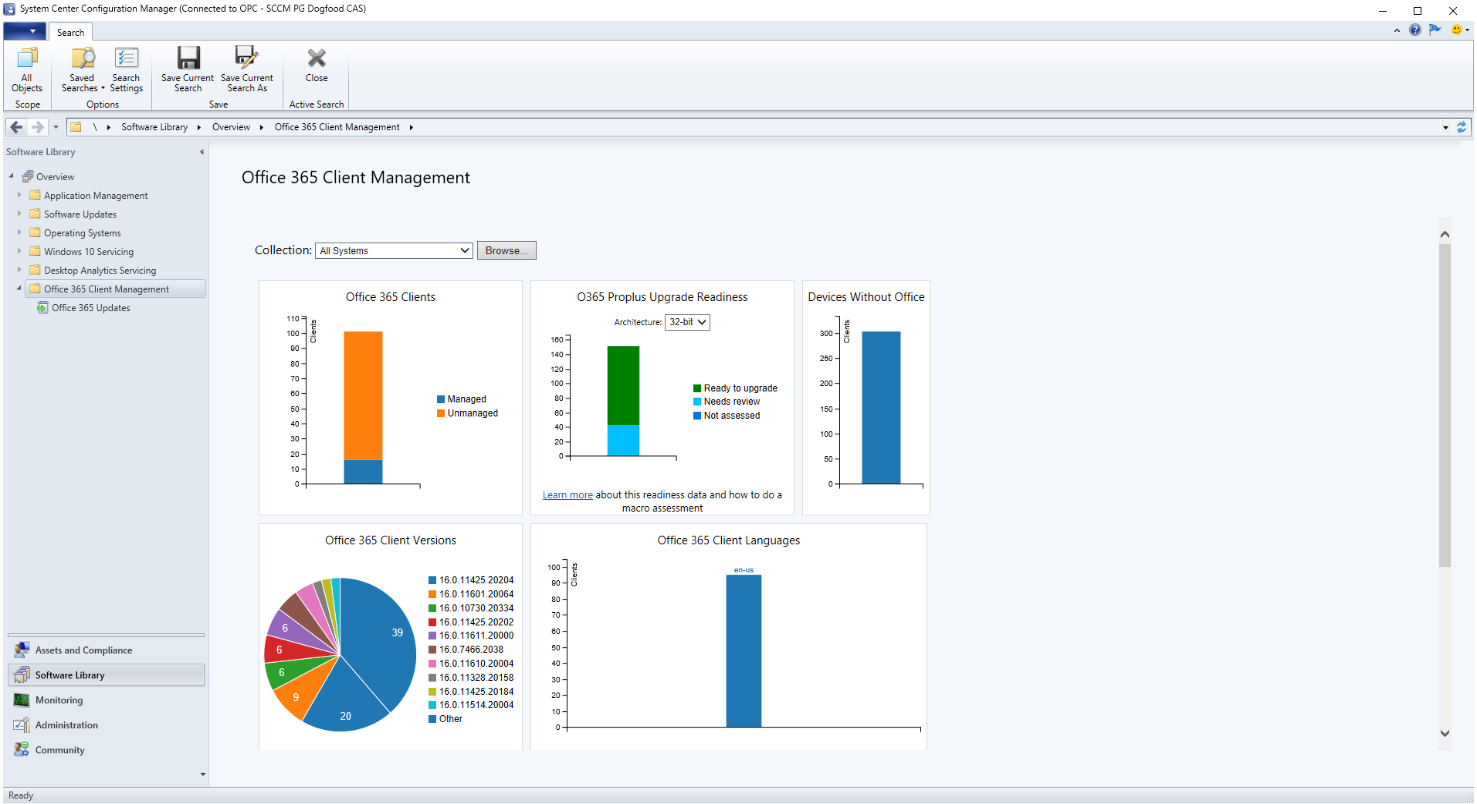
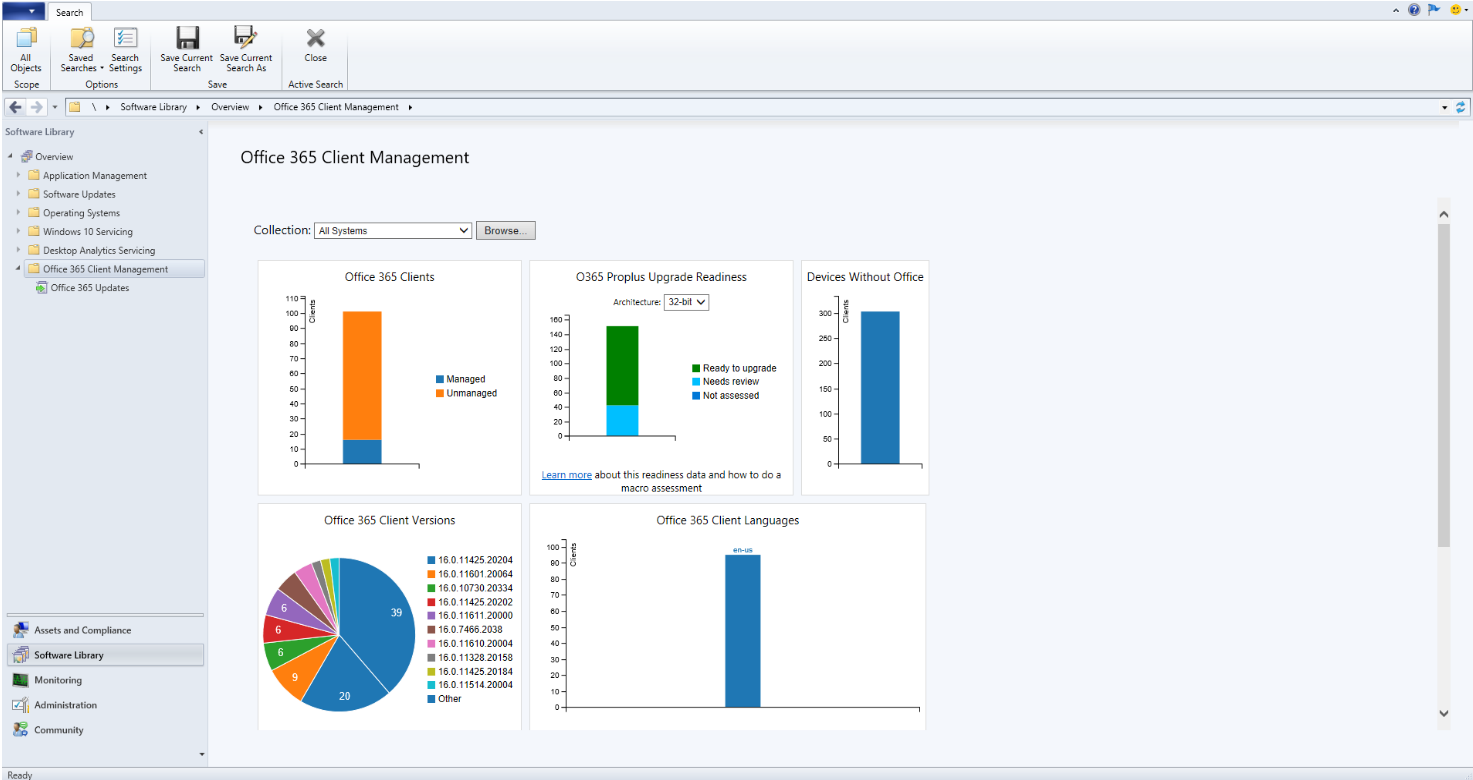
rebranding of configmgr and other text edits

diff --git a/learn-m365-pr/m365/m365-office-it-prepare/includes/commonconfigurations.md b/learn-m365-pr/m365/m365-office-it-prepare/includes/commonconfigurations.md
@@ -1,33 +1,45 @@
 In this unit, we’ll explain relevant network considerations, language configurations, policies and preferences, and application architectures.
 
 ## Network optimizations for software updates
-You can update general purpose devices using automatic updates over the Internet. You can configure Office software updates to use Delivery Optimization in Windows 10. This will minimize Internet and VPN traffic while ensuring your Office installation is kept up-to-date. Delivery Optimization uses peer-to-peer delivery to minimize Internet bandwidth usage. You can load updates to a small number of devices on a shared network. Then other connected devices use their network peers to discover and load the updates from them. This prevents every device from individually downloading updates from the Internet, saving significant bandwidth.
 
-If your organization uses System Center Configuration Manager infrastructure, you can configure peer cache to reduce internal network or VPN traffic to remote distribution points. With peer cache in Configuration Manager, you identify well-connected client PCs on a local network to cache deployment source. In this case Office uses Configuration Manager as the software update mechanism. Update traffic is directed to the nearest peer cache device on the network in order to save bandwidth. 
+You can update general purpose devices using automatic updates over the Internet. You can configure Office software updates to use Delivery Optimization in Windows 10. This will minimize Internet and VPN traffic while ensuring your Office installation is kept up-to-date. Delivery Optimization uses peer-to-peer delivery to minimize internet bandwidth usage. You can load updates to a small number of devices on a shared network. Then other connected devices use their network peers to discover and load the updates from them. This prevents every device from individually downloading updates from the internet, saving significant bandwidth.
+
+If your organization uses Microsoft Endpoint Configuration Manager infrastructure, you can configure peer cache to reduce internal network or VPN traffic to remote distribution points. With peer cache in Configuration Manager, you identify well-connected client PCs on a local network to cache deployment source. In this case Office uses Configuration Manager as the software update mechanism. Update traffic is directed to the nearest peer cache device on the network in order to save bandwidth. 
 
 ## Language configurations
 
-If your organization has devices and users with multiple languages, you can configure your Office deployments for full language support, partial language support, or proofing language support as needed. You configure this in the configuration XML file and can edit it using the Office Customization Tool (found at [https://config.office.com](https://config.office.com) or as part of the updated Office application packaging process in System Center Configuration Manager. 
+If your organization has devices and users with multiple languages, you can configure your Office deployments for full language support, partial language support, or proofing language support as needed. You configure this in the configuration XML file and can edit it using the Office Customization Tool, or as part of the updated Office application packaging process in Configuration Manager. 
   
 > [!TIP] 
-> A common mistake made in multi-lingual environments is to build a single package that contains most or all of the languages used in the organization. If you add too many languages, the Office package can quickly exceed several gigabytes. 
+> A common mistake made in multi-lingual environments is to build a single package that contains most or all of the languages used in the organization. If you add too many languages, the Office package can quickly exceed several gigabytes.
 
-One advantage of installing from the Internet-based Office 365 CDN instead of using Configuration Manager is that you can use the **match OS** property. With the **match OS** property, you can  download language-specific files dynamically as Office is installed. 
+One advantage of installing from the internet-based Office 365 CDN instead of using Configuration Manager is that you can use the **match OS** property. With the **match OS** property, you can  download language-specific files dynamically as Office is installed.
 
 ## Policies and preferences
 
-Office 365 ProPlus and volume licensing editions of Office 2019 support Active Directory Group Policy management. New versions continue to use the Office 2016 ADMX templates. Additionally, you can configure install-time policy preferences with the same versions of Office by using the new Office Customization Tool [(https://config.office.com)](https://config.office.com) or as part of the Office 365 Installer process in Configuration Manager. These are policy preferences and not enforced policies - in many cases your users can change or modify the configurations post-installation.
+Office 365 ProPlus and volume licensing editions of Office 2019 support Active Directory Group Policy management. New versions continue to use the Office 2016 ADMX templates. Additionally, you can configure install-time policy preferences with the same versions of Office by using the new Office Customization Tool or as part of the Office 365 Installer process in Configuration Manager. These are policy preferences and not enforced policies - in many cases your users can change or modify the configurations post-installation.
 
-Office 365 ProPlus has a new policy enforcement option - the Office Cloud Policy Service. When a user signs into their Office 365 account, if Office 365 ProPlus is installed on their device, the service enforces the policies you've configured. These policies work regardless of how Office 365 ProPlus was installed and whether or not the user’s PC is domain-joined or managed using other systems. To configure policies with the Office Cloud Policy Service, you add users to an Office 365 group, then assign that group to configured policies. You can also get to the Office Cloud Policy Service experience at [https://config.office.com](https://config.office.com). To use this capability, you need to authenticate with an administrator account to set policies and assign them to groups. 
+Office 365 ProPlus has a new policy enforcement option - the Office Cloud Policy Service. When a user signs into their Office 365 account, if Office 365 ProPlus is installed on their device, the service enforces the policies you've configured. These policies work regardless of how Office 365 ProPlus was installed and whether or not the user’s PC is domain-joined or managed using other systems. 
+
+To configure policies with the Office Cloud Policy Service, you add users to an Office 365 group, then assign that group to configured policies. You can also get to the Office Cloud Policy Service experience from the Office Customization Tool link below under **Learn more.** To use this capability, you need to authenticate with an administrator account to set policies and assign them to groups. 
 
 > [!NOTE]
 > The policies set in the Office Cloud Policy Service are currently limited to **User Configuration** policies and don’t include **Computer Configuration** policies.
 
 ## Visio and Project considerations
+
 If any of your users have Visio or Project installed, there are a few additional things to be aware of:
--	Volume licensing versions of Visio or Project can coexist on the same computer with subscription activation versions of Office 365 ProPlus.
--	Visio 2019 and Project 2019, as well as Visio Online and Project Online applications, are packaged using Click-to-Run. Because of codependencies and shared components in Office, they must be at an equivalent version level. For example, if you have Visio 2019, and you want to also use Office, you need Office 2019 or Office 365 ProPlus.
--	Click-to-Run packaged versions of Visio or Project must use the same update channel as other Click-to-Run Office features on the PC. 
+
+- Volume licensing versions of Visio or Project can coexist on the same computer with subscription activation versions of Office 365 ProPlus.
+- Visio 2019 and Project 2019, as well as Visio Online and Project Online applications, are packaged using Click-to-Run. Because of codependencies and shared components in Office, they must be at an equivalent version level. For example, if you have Visio 2019, and you want to also use Office, you need Office 2019 or Office 365 ProPlus.
+- Click-to-Run packaged versions of Visio or Project must use the same update channel as other Click-to-Run Office features on the PC.
 
 ## Office installation architecture
+
 The installation architecture for all Office applications (including Visio and Project) must match that of any other Office application on the same device, whether that is 32-bit or 64-bit. If the Office installation process detects another architecture, the installation won’t proceed. Office COM add-ins must also match the architecture of the installed version of Office. If you want to move to 64-bit versions of Office, you must replace native 32-bit COM add-ins with the equivalent 64-bit COM add-ins. 
+
+## Learn more
+
+When you're done with a link, use the **Back** arrow in your browser to come back to this page.
+
+- [Office Customization Tool](https://config.office.com)

diff --git a/learn-m365-pr/m365/m365-office-it-overview/includes/introduction.md b/learn-m365-pr/m365/m365-office-it-overview/includes/introduction.md
@@ -1,15 +1,17 @@
 > [!VIDEO https://www.microsoft.com/videoplayer/embed/RE3YduP]
 
-**Microsoft Office** applications are available for Windows, MacOS, mobile platforms, and the web. In this learning path, we’ll focus on Office desktop apps for Windows and what you can do to **prepare**, **upgrade**, and **manage** the Office suite on your systems. After completing this learning path, you should know the tools and best practices to move from an older version of Office to a current release, as well as what you can do to stay current as updates are released.
+Microsoft Office applications are available for Windows, MacOS, mobile platforms, and the web. In **Upgrade Microsoft Office for IT at scale**, we focus on Office desktop apps for Windows and what you can do to *prepare*, *upgrade*, and *manage* the Office suite on your systems. You'll learn the tools and best practices to move from an older version of Office to a current release, as well as what you can do to stay current as updates are released.
 
-Current releases of Microsoft Office are **designed to be compatible** with existing files and Office add-ins – also known as COM add-ins – running in Microsoft Office 2010 and newer. In fact, more than 99% of COM add-ins will continue to work after you upgrade. We’ll show you the tools to discover both COM add-ins and VBA Macros in files and to assess their compatibility with help from Microsoft’s compatibility data in the cloud.
+Current releases of Microsoft Office are designed to be compatible with existing files and Office add-ins – also known as COM add-ins – running in Microsoft Office 2010 and newer. In fact, more than 99% of COM add-ins will continue to work after you upgrade. We’ll show you the tools to discover both COM add-ins and VBA Macros in files and to assess their compatibility with help from Microsoft’s compatibility data in the cloud.
 
-**Microsoft Office** is available in both **Office 365** and **Volume Licensing** editions. As of the 2019 release, Office 365 ProPlus and Office 2019 Professional Plus and Standard use Click-to-Run packaging and specific tools designed for Click-to-Run. The MSI-based packages of Office Volume Licensing editions used until Office 2016 are no longer available; instead Volume Licensing editions use Click-to-Run and can be activated using Multiple Activation Keys (MAK) or Key Management Servers (KMS). A common misperception is that all Office Click-to-Run packages use Office 365 subscription-based activation, but this isn’t true. Both volume licensing and subscription-based activation are supported with Click-to-Run packages of Office.
+Microsoft Office is available in both Office 365 and Volume Licensing editions. As of the 2019 release, Office 365 ProPlus and Office 2019 Professional Plus and Standard use Click-to-Run packaging and specific tools designed for Click-to-Run. The MSI-based packages of Office Volume Licensing editions used until Office 2016 are no longer available; instead Volume Licensing editions use Click-to-Run and can be activated using Multiple Activation Keys (MAK) or Key Management Servers (KMS). A common misperception is that all Office Click-to-Run packages use Office 365 subscription-based activation, but this isn’t true. Both volume licensing and subscription-based activation are supported with Click-to-Run packages of Office.
 
-Office 365 ProPlus and Office 2019 use updated deployment and management tools. The **Office Deployment Tool** is a lightweight setup.exe bootstrapper that can download, install, and configure Office using an XML configuration file. The new **Office Customization Tool** is a web-based interface used to author the XML configuration files. The functionality of both tools are built into System Center Configuration Manager.  
+Office 365 ProPlus and Office 2019 use updated deployment and management tools. The Office Deployment Tool is a lightweight setup.exe bootstrapper that can download, install, and configure Office using an XML configuration file. The new Office Customization Tool is a web-based interface used to author the XML configuration files. The functionality of both tools are built into Configuration Manager.  
 
-Office servicing has also changed with the move to Click-to-Run packaging. In this learning path, we’ll explain monthly and semi-annual channel updates and how they work for both Office 365 and Office 2019 editions. We’ll also review your options to validate updates before release. We’ll also explore the following:
+Office servicing has also changed with the move to Click-to-Run packaging. You'll learn about monthly and semi-annual channel updates and how they work for both Office 365 and Office 2019 editions. We’ll also review your options to validate updates before release. 
 
--	Post-deployment steps to manage software updates
--	How to add apps, languages, and other configurations to existing installations
--	Tools and processes to troubleshoot common configuration, update, and activation issues 
+In addition, we’ll explore:
+
+- Post-deployment steps to manage software updates
+- How to add apps, languages, and other configurations to existing installations
+- Tools and processes to troubleshoot common configuration, update, and activation issues

diff --git a/learn-m365-pr/m365/m365-office-upgrading/includes/processes-tools-download-configure.md b/learn-m365-pr/m365/m365-office-upgrading/includes/processes-tools-download-configure.md
@@ -20,12 +20,19 @@ The setup.exe in the Office Deployment Tool allows you to:
 
     `setup.exe /customize [Path]\settings.xml`
 
-The configuration XML lets you configure dozens of settings when downloading and configuring Office. For example, you can define which products and languages to install, how to update those products, and whether or not to display the installation experience to your users. You can get a complete list of configuration options at [Overview of the Office Deployment Tool](https://aka.ms/odt).
+The configuration XML lets you configure dozens of settings when downloading and configuring Office. For example, you can define which products and languages to install, how to update those products, and whether or not to display the installation experience to your users. You can get a complete list of configuration options under the **Learn more** link below.
 
 ## Office Customization Tool
 
-You can use the **Office Customization Tool** to create and modify configuration XML files using a web-based interface found at [Office 365 Client Configuration Service](https://config.office.com). Use the Office Customization Tool with the setup.exe from the Office Deployment Tool to deploy Office packages to a small number of systems. You can also use it instead of Configuration Manager if your organization doesn’t use System Center Configuration Manager.
+You can use the **Office Customization Tool** to create and modify configuration XML files using a web-based interface found within the Office 365 Client Configuration Service. Use the Office Customization Tool with the setup.exe from the Office Deployment Tool to deploy Office packages to a small number of systems. You can also use it instead of Configuration Manager if your organization doesn’t use Configuration Manager.
 
-Since release 1806, System Center Configuration Manager includes an integrated experience with the Office Customization tool that uses the same web experience as part of the **Office 365 Installer** application package creation process.
+Since release 1806, Configuration Manager includes an integrated experience with the Office Customization tool that uses the same web experience as part of the **Office 365 Installer** application package creation process.
 
-As part of the Office 365 Installer in System Center Configuration Manager, the wizard downloads the up-to-date setup.exe as needed from the Office Deployment Tool, creates the configuration XML file, and downloads Office installation files to your defined package folder location.
+As part of the Office 365 Installer in Configuration Manager, the wizard downloads the up-to-date setup.exe as needed from the Office Deployment Tool, creates the configuration XML file, and downloads Office installation files to your defined package folder location.
+
+## Learn more
+
+When you're done with a link, use the **Back** arrow in your browser to come back to this page.
+
+- [Office 365 Client Configuration Service](https://config.office.com)
+- [Overview of the Office Deployment Tool and configuration options](https://aka.ms/odt)

diff --git a/learn-m365-pr/m365/m365-office-it-prepare/includes/readinesstools.md b/learn-m365-pr/m365/m365-office-it-prepare/includes/readinesstools.md
@@ -4,7 +4,7 @@ Current versions of Microsoft Office are designed to be natively compatible with
 
 ## Assess compatibility with readiness tools
 
-You can use the Readiness Toolkit for Office on its own or with System Center Configuration Manager to gain insights on Office COM add-in and VBA macro compatibility. Configuration Manager also has new capabilities to inventory Office COM add-ins  with hardware inventory. Configuration Manager can also assess Office COM add-ins against known compatibility information.  Using this process, Configuration Manager downloads a copy of known compatibility information from Microsoft and performs local queries against your inventoried Office COM add-ins. With this approach, you don’t have to send Office client or add-in information to the Microsoft cloud to assess compatibility.
+You can use the Readiness Toolkit for Office on its own or with Configuration Manager to gain insights on Office COM add-in and VBA macro compatibility. Configuration Manager also has new capabilities to inventory Office COM add-ins  with hardware inventory. Configuration Manager can also assess Office COM add-ins against known compatibility information.  Using this process, Configuration Manager downloads a copy of known compatibility information from Microsoft and performs local queries against your inventoried Office COM add-ins. With this approach, you don’t have to send Office client or add-in information to the Microsoft cloud to assess compatibility.
 
 You can access this information in the Office Dashboard in Configuration Manager and drill into lists of the add-ins it found. Use this information to prioritize testing the most commonly used and installed Office COM add-ins – especially where there isn’t known compatibility information, such as with in-house developed COM add-ins.
 
@@ -18,4 +18,4 @@ In smaller environments, you can also use the Readiness Toolkit for Office on it
 
 When you're done with a link, use the **Back** arrow in your browser to come back to this page.
 
-- [Assistance offered](https://docs.microsoft.com/fasttrack/win-10-daa-assistance-offered)
+- [FastTrack Center](https://docs.microsoft.com/fasttrack/win-10-daa-assistance-offered)

diff --git a/learn-m365-pr/m365/m365-office-upgrading/includes/create-application-package.md b/learn-m365-pr/m365/m365-office-upgrading/includes/create-application-package.md
@@ -1,6 +1,6 @@
 ![download icon](../media/download-icon.png)
 
-In this unit, we’ll build an Office 365 ProPlus package using the Office 365 Installer application packaging process in System Center Configuration Manager. This process is similar to the standalone web tool found at [Office 365 Client Configuration Service](https://config.office.com).
+In this unit, we’ll build an Office 365 ProPlus package using the Office 365 Installer application packaging process in Configuration Manager. This process is similar to the standalone web tool found in the Office 365 Client Configuration Service.
 
 You can use the standard application package creation process in Configuration Manager, but you’ll have to create the configuration XML files manually, as well as download an updated version of the Office Deployment Tool and the Office installation files. Because of this and to avoid making mistakes along the way, we recommend you use the Office 365 Installer process, following these steps.
 
@@ -12,7 +12,7 @@ To get started in Configuration Manager, access the Office 365 Installer through
 
 ![Screenshot of the Office Customization Tool](../media/office-customization-tool.png)
 
-4. Walking through the Office Customization Tool experience in Configuration Manager, do the following:
+4. In the Office Customization Tool in Configuration Manager:
 
     1. In **Architecture**, choose the Office architecture.
     2. In **Products**, select the Office suites and apps you want to deploy.
@@ -30,3 +30,9 @@ To get started in Configuration Manager, access the Office 365 Installer through
 ![Screenshot of the Client Installation Wizard](../media/client-installation-wizard.png)
 
 If you haven’t already chosen to deploy in the earlier step, you’re ready to deploy as you normally would using other application packages.
+
+## Learn more
+
+When you're done with a link, use the **Back** arrow in your browser to come back to this page.
+
+- [Office 365 Client Configuration Service and Client Management](https://config.office.com)

diff --git a/learn-m365-pr/m365/m365-office-it-prepare/includes/prerequisites.md b/learn-m365-pr/m365/m365-office-it-prepare/includes/prerequisites.md
@@ -26,13 +26,14 @@ Your next step is to determine how Office is used on different PCs and to invent
 
 Typically, Office usage falls into two categories:
 
-**General purpose**
--	Minimal customizations, COM add-ins, or VBA macros in use.
--	Typically represents the majority of users. General purpose devices should use monthly channel updates whenever possible delivered directly from the Internet by the Office 365 Content Delivery Network (CDN).
+### General purpose
 
-**Business essential**
+- Minimal customizations, COM add-ins, or VBA macros in use.
+- Typically represents the majority of users. General purpose devices should use monthly channel updates whenever possible delivered directly from the Internet by the Office 365 Content Delivery Network (CDN).
 
--	More COM add-ins installed – often for Excel power users. If issues occur in response to an update, users may lose essential functionality.
--	Business essential devices should use semi-annual channel updates to keep features more consistent over time.
+### Business essential
+
+- More COM add-ins installed – often for Excel power users. If issues occur in response to an update, users may lose essential functionality.
+- Business essential devices should use semi-annual channel updates to keep features more consistent over time.
 
 You can use Configuration Manager (1902 and newer) to take an inventory of COM add-ins and the devices where they're installed. Configuration Manager discovers Office add-ins using a hardware inventory and reports Office client information. Another option is to use the Readiness Toolkit for Office to inventory COM add-ins. You can define systems with minimal customizations and COM add-ins as general purpose, and then set policies to update those systems automatically. 

diff --git a/learn-m365-pr/m365/m365-office-it-overview/includes/understanding-office.md b/learn-m365-pr/m365/m365-office-it-overview/includes/understanding-office.md
@@ -5,5 +5,5 @@ This material follows the steps to Prepare > Upgrade > Manage your Microsoft Off
 | | |
 |-|-| 
 |![Prepare](../media/prepare.png) **Prepare**|In the first step, Prepare, we’ll walk through the requirements to prepare for your Office application upgrades in Windows:<br>-	Prerequisites, considerations, and update channel options<br>-	Network, language, policies, and common configurations<br>-	Readiness tools for discovering and assessing the compatibility of Office COM add-ins and VBA Macros|
-|![Upgrade](../media/upgrade.png) **Upgrade**|In the second step, Upgrade, we’ll walk through the tools, options, and processes to deploy and upgrade Office applications in Windows:<br>-	Processes and tools to download and configure Office installation<br>-	Using the Office Customization Tool for application package creation<br>-	Monitoring Office upgrades and updates using System Center Configuration Manager|
+|![Upgrade](../media/upgrade.png) **Upgrade**|In the second step, Upgrade, we’ll walk through the tools, options, and processes to deploy and upgrade Office applications in Windows:<br>-	Processes and tools to download and configure Office installation<br>-	Using the Office Customization Tool for application package creation<br>-	Monitoring Office upgrades and updates using Configuration Manager|
 |![Manage](../media/manage.png) **Manage**|In the third step, Manage, we’ll explain the new options for Office software updates, post-deployment configuration, and common troubleshooting procedures:<br>-	Update management options across Office 365 ProPlus and Office 2019 editions<br>-	Add apps, languages, or configurations to existing installations<br>-	Troubleshoot and manage common issues|

diff --git a/learn-m365-pr/m365/m365-office-managing-troubleshooting/includes/understand-update-management-options.md b/learn-m365-pr/m365/m365-office-managing-troubleshooting/includes/understand-update-management-options.md
@@ -1,6 +1,6 @@
 ![Checkmark icon](../media/checkmark-icon.png)
 
-All Click-to-Run packages of Office share the same post-deployment servicing approaches. In the planning module, we explained the Office servicing channels used for software update management:
+All Click-to-Run packages of Office share the same post-deployment servicing approaches. In the module **Prepare to upgrade and update Office at scale in Windows**, we explained the Office servicing channels used for software update management:
 
 - Monthly channel
 - Semi-annual channel
@@ -29,4 +29,4 @@ Office update checks and processes use scheduled tasks. A few processes, such as
 
 Office update detection runs, by default, 15, 45, and 75 minutes after the user signs in, daily at 3:00am, and when the device is idle (when there is no user interaction for 15 or more minutes).
 
-If you’re using System Center Configuration Manager, the update engine works in a similar way, but it’s governed by Configuration Manager client policies. You can manually discover and approve updates to your Click-to-Run-packaged Office apps using the standard update approval process.  
+If you’re using Microsoft Endpoint Configuration Manager, the update engine works in a similar way, but it’s governed by Configuration Manager client policies. You can manually discover and approve updates to your Click-to-Run-packaged Office apps using the standard update approval process.  

diff --git a/learn-m365-pr/m365/m365-office-upgrading/includes/monitoring-office-updates-upgrades.md b/learn-m365-pr/m365/m365-office-upgrading/includes/monitoring-office-updates-upgrades.md
@@ -1,6 +1,6 @@
 ![download icon](../media/download-icon.png)
 
-System Center Configuration Manager version (1802 and newer) includes the Office 365 Client Management dashboard. You can use the Office 365 client management dashboard to see which Office versions are on your managed devices.
+Configuration Manager version (1802 and newer) includes the Office 365 Client Management dashboard. You can use the Office 365 Client Management dashboard to see which Office versions are on your managed devices.
 
 To view the Office 365 Client Management dashboard in Configuration Manager, go to **Software Library > Overview > Office 365 Client Management**. At the top of the dashboard, use the **Collection** setting to filter the dashboard data to members of a specific collection. Starting with Configuration Manager version 1802, you can click on different segments of a chart to see the relevant devices. For example, if you click the **Managed** segment of the **Office 365 Clients** in the following dashboard, you’d see a list of the managed devices with Office 365 clients installed.
 

diff --git a/learn-m365-pr/m365/m365-office-upgrading/includes/summary-knowledge-check.md b/learn-m365-pr/m365/m365-office-upgrading/includes/summary-knowledge-check.md
@@ -1,1 +1,1 @@
-In this module, you learned how to use the tools to download and configure an Office 365 installation. You also learned how to create and configure an Office application package. Finally, you learned how to monitor Office upgrades and updates by using System Center Configuration Manager.
+In this module, you learned how to use the tools to download and configure an Office 365 installation. You also learned how to create and configure an Office application package. Finally, you learned how to monitor Office upgrades and updates by using Configuration Manager.

diff --git a/learn-m365-pr/m365/m365-office-upgrading/includes/intro-updating-office.md b/learn-m365-pr/m365/m365-office-upgrading/includes/intro-updating-office.md
@@ -5,6 +5,6 @@ This introduction to deploying Office upgrades at scale covers the consideration
 - Core deployment and configuration tools for Office Click-to-Run packages
 - Office Deployment Tool and configuration XML
 - Using the Office Customization Tool
-- Office 365 Installer in System Center Configuration Manager
+- Office 365 Installer in Microsoft Endpoint Configuration Manager
 - Configuring Office installations with apps, languages, update options
 - Monitoring Office package deployment in Configuration Manager
